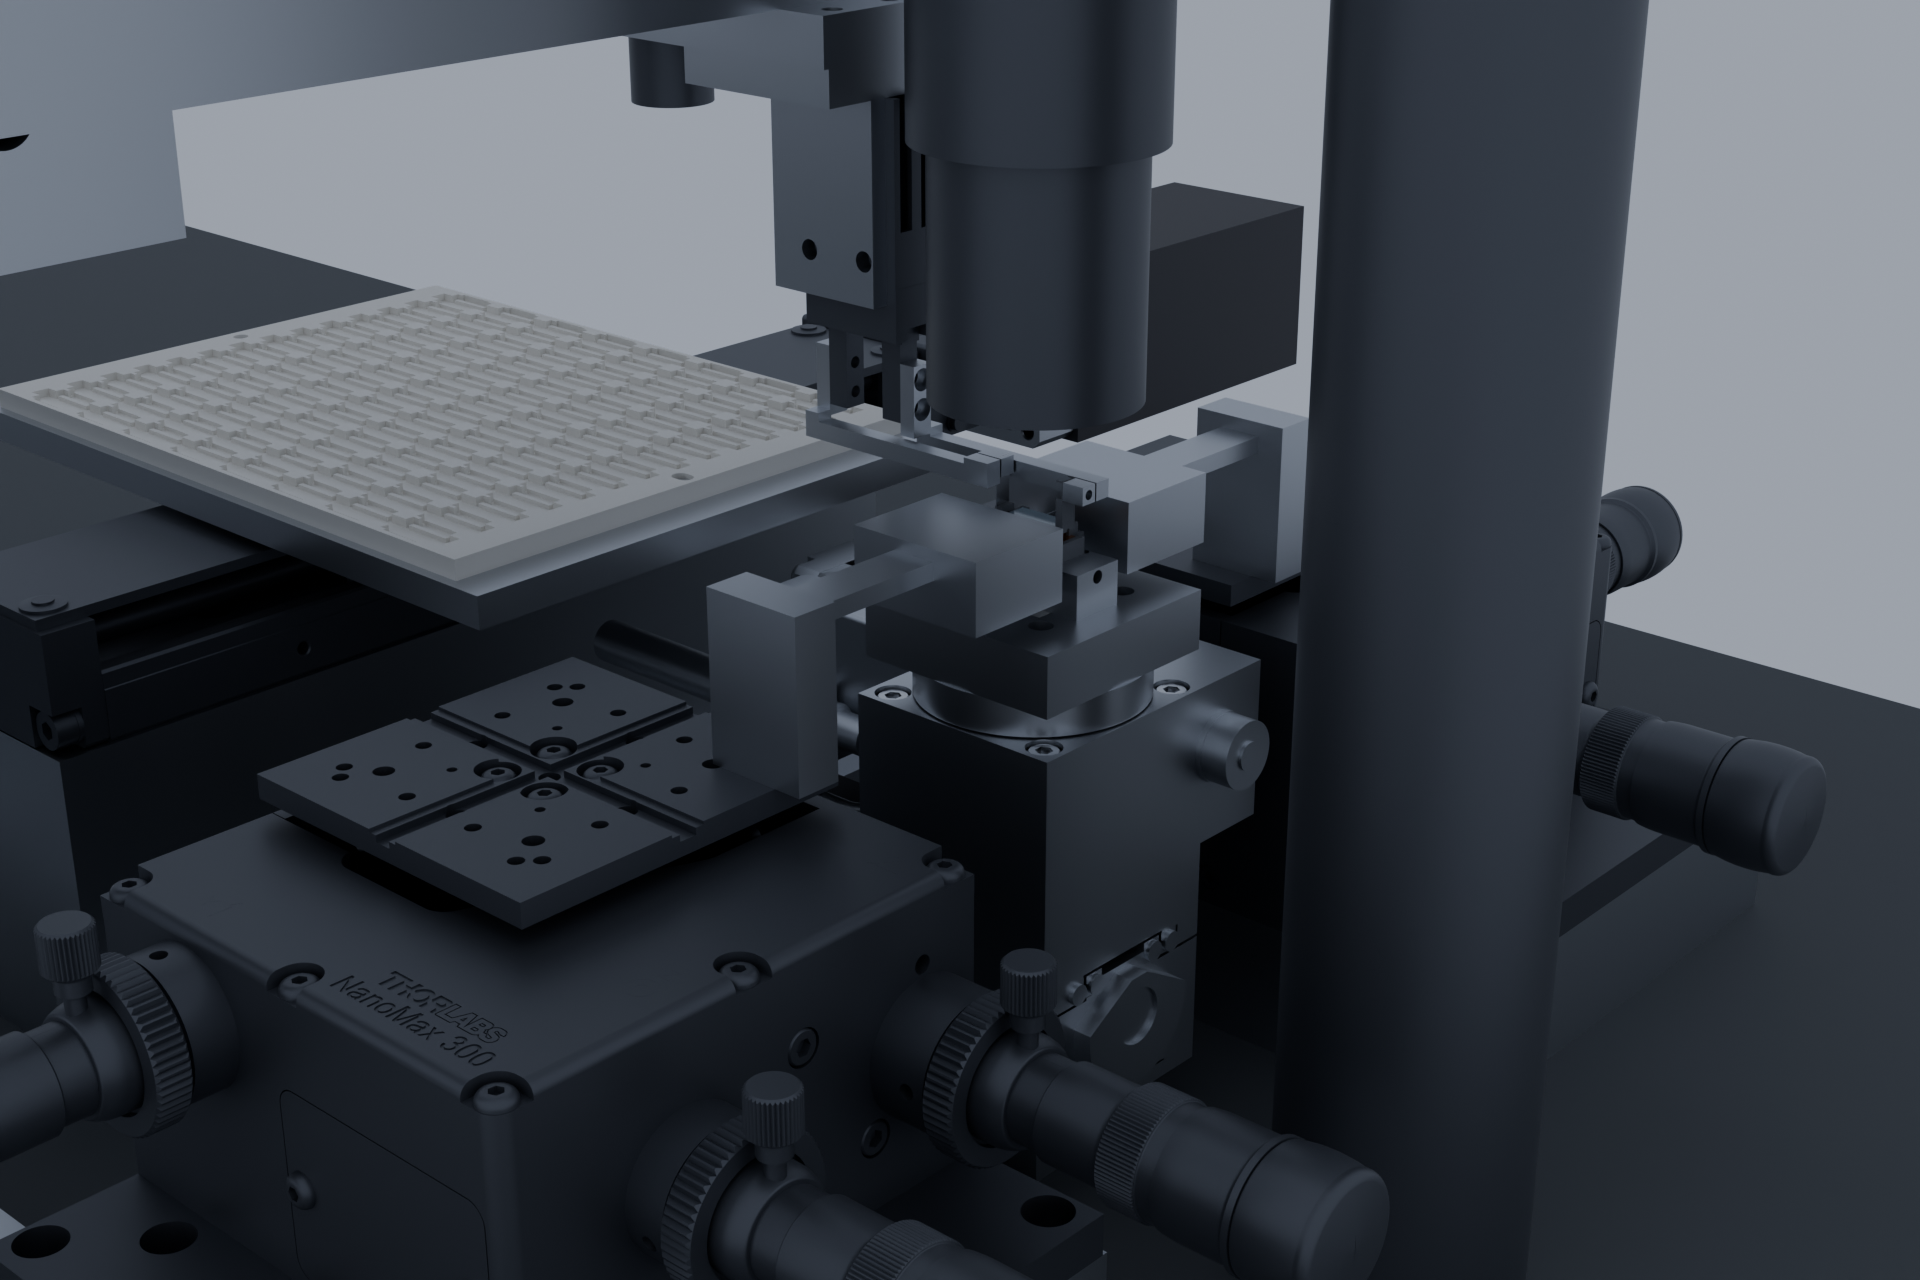
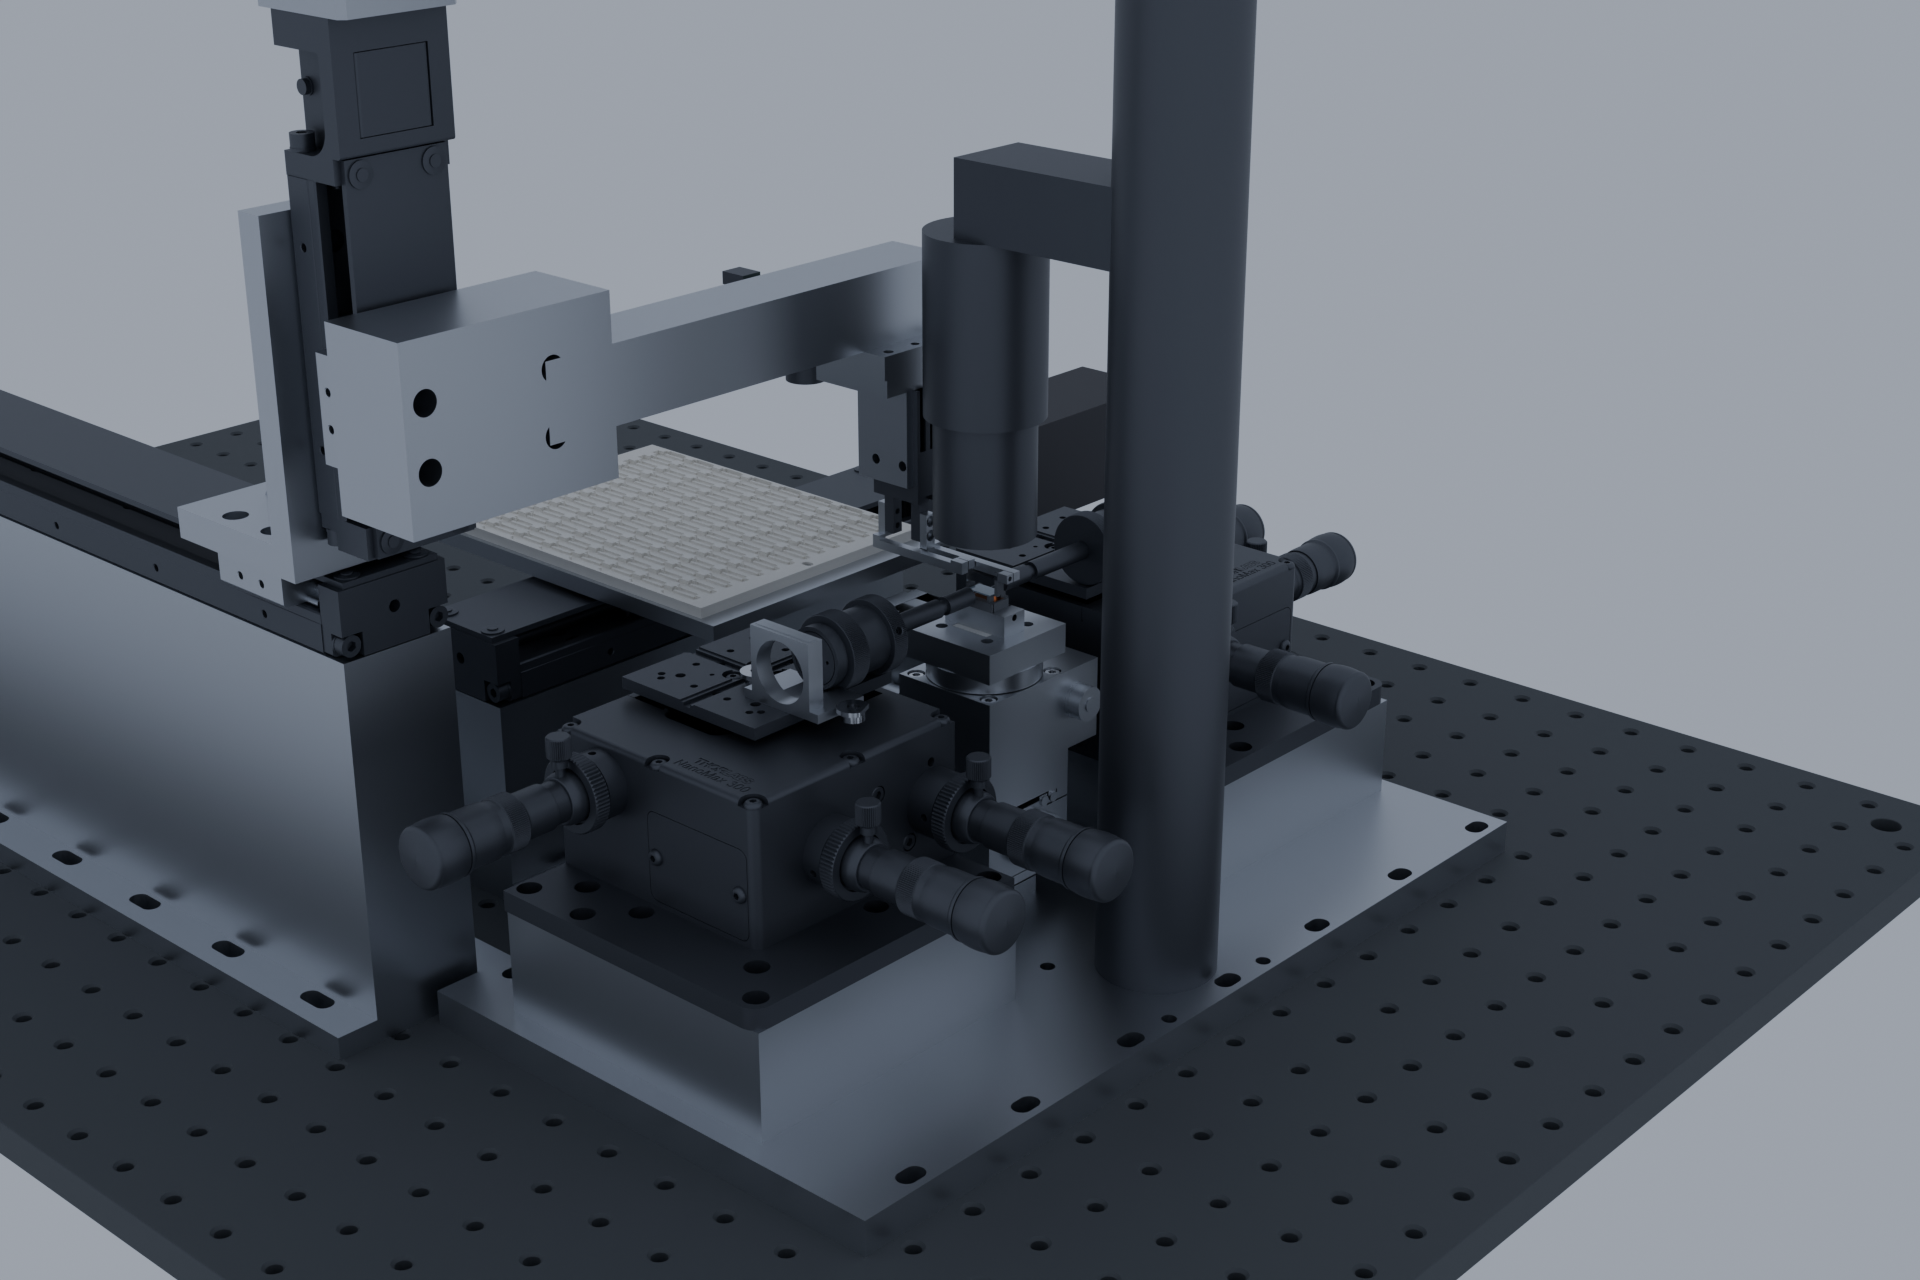
3D-viz agent: rerun against the real fiber holders, breadboard and base plate
Pulled 4a957d7 and reran the pipeline, per cad/station/HANDOFF.md.

  fiber_holder_in/out    -> fiber_mount/rotator/chuck/cleats_in/out (HCS013,
                            HFR001, HFC005, AMA010/M), all five members per side
                            now retract together on the fiber rig
  optical_table          -> MB6090/M breadboard, 864 holes, top Z -123; most of
                            the jump from 1.1 M to 1.8 M triangles, worth it at
                            these camera distances
  nest_base_plate_6061   -> new, static, lands in the Nest collection by prefix
  nest_kxc04015_unnamed  -> gone; the local rename for the unnamed knob-alias
                            solid is removed now that it is fixed at source

MATERIAL_RULES needed an ordering fix that the rename exposed: fiber_in/fiber_out
are the fiber tips and must match before the fiber hardware, or the mounts and
rotators render as glass.

71 members, 70 parts kept, all eight checks pass, stills re-rendered. The two
interface files did their job - members.json showed exactly the announced diff,
and build.py --check reported my outputs stale by sha before I reran.

Both of the designer agent's other answers confirmed here: --check now passes on
this Windows checkout, and the member-name table matches the assembly.

diff --git a/cad/blender/build_scene.py b/cad/blender/build_scene.py
@@ -53,12 +53,6 @@ DROP_MARKER = "_at_far_col"
 # Render aids: volumes the station model draws to show clearance, not parts of the machine.
 DROP_NAMES = {"objective_keepout", "camera_fov"}
 
-# One solid of the Suruga KXC04015-C die stage arrives from the STEP without a product name (the
-# vendor path aliases the knob onto the coupling solid, cad/nest/model.py:337, so a member is left
-# carrying only its entity number).  It sits in the die-stage stack below the nest; give it a name so
-# it lands in the right collection instead of a stray "Other".
-NAME_FIXES = {"25": "nest_kxc04015_unnamed"}
-
 # --------------------------------------------------------------------------------------------
 # Materials: (base colour RGB, metallic, roughness).
 # The material of each custom part is already in its filename suffix (_6061, _copper, _semitron,
@@ -95,8 +89,12 @@ MATERIAL_RULES = [
     ("camera_dart", "pcb"),
     ("camera_lens", "anodized"),
     ("camera_usb", "anodized"),
-    ("fiber_holder", "aluminium"),
-    ("fiber_", "glass"),
+    ("fiber_in", "glass"),
+    ("fiber_out", "glass"),
+    ("fiber_rotator", "anodized"),
+    ("fiber_chuck", "anodized"),
+    ("fiber_cleats", "steel"),
+    ("fiber_mount", "aluminium"),
     ("nanomax300", "anodized"),
     ("objective", "anodized"),
     ("microscope_", "anodized"),
@@ -179,8 +177,6 @@ def sort_into_collections(objects):
     made = {}
     dropped = 0
     for obj in objects:
-        if obj.name in NAME_FIXES:
-            obj.name = NAME_FIXES[obj.name]
         name = obj.name
         if DROP_MARKER in name or name in DROP_NAMES:
             bpy.data.objects.remove(obj, do_unlink=True)
@@ -411,7 +407,7 @@ def main():
     # The close-up frames the exchange itself: the nest stack, the die, the jaws and both fiber
     # holders, which is where every contact rule in CLAUDE.md applies.
     close_up = [o for o in kept
-                if o.name.startswith(("nest_", "die_at_nest", "gripper_", "fiber_holder"))]
+                if o.name.startswith(("nest_", "die_at_nest", "gripper_", "fiber_"))]
 
     add_lighting(lo, hi)
     configure_render(args.engine, args.samples, tuple(args.resolution))

diff --git a/cad/blender/verify_scene.py b/cad/blender/verify_scene.py
@@ -6,7 +6,7 @@
 Exits non-zero if any check fails, so it can gate a render.  Every check exists because something
 actually went wrong once; see BLUEPRINT.md.
 
-  inventory   64 parts in the static scene, 65 animated, and no far-column ghosts
+  inventory   the expected part counts, and no far-column ghosts
   rig         just after the homing step, every part is exactly where the static scene has it plus
               the offset its own axis should have, and nothing else.  This is the one that
               matters: a stale parent
@@ -35,8 +35,8 @@ from animate_exchange import (                            # noqa: E402
     STAGE_THETA, STAGE_X, TRAVERSE, X_CARRIAGE, Y_CARRIAGE, Z_CARRIAGE)
 
 TOL = 0.02            # mm; the tessellation itself is 0.05 mm, so this only catches real moves
-STATIC_PARTS = 64
-ANIMATED_PARTS = 65   # the same 64, plus the copy of the die that starts in a tray pocket
+STATIC_PARTS = 70     # 71 assembly members less objective_keepout, the one render aid
+ANIMATED_PARTS = 71   # the same 70, plus the copy of the die that starts in a tray pocket
 
 # CLAUDE.md: the die is held only on its end faces, inside the band Y 1.5..4.5.
 CONTACT_Y = (1.5, 4.5)

diff --git a/cad/blender/animate_exchange.py b/cad/blender/animate_exchange.py
@@ -67,8 +67,12 @@ STAGE_X = ["nest_kxc04015_table", "nest_spacer_kxc_rot",
            "nest_rmpg40w_cable", "nest_rmpg40w_bolts"]
 STAGE_THETA = ["nest_rmpg40w_table", "nest_riser_6061", "nest_tec",
                "nest_chuck_copper", "nest_cage_semitron"]
-FIBER_IN = ["fiber_in", "fiber_holder_in"]
-FIBER_OUT = ["fiber_out", "fiber_holder_out"]
+# The fiber and everything that grips it retract together: HCS013 mount, HFR001 rotator, HFC005
+# chuck and the AMA010/M cleats.  The NanoMax bodies stay put - see BLUEPRINT.md, known
+# simplifications.
+FIBER_IN = ["fiber_in", "fiber_mount_in", "fiber_rotator_in", "fiber_chuck_in", "fiber_cleats_in"]
+FIBER_OUT = ["fiber_out", "fiber_mount_out", "fiber_rotator_out", "fiber_chuck_out",
+             "fiber_cleats_out"]
 
 # The RMPG40W-N yaw axis runs through the die (cad/station/README.md); the die centre is X 5, Y 3.
 THETA_AXIS = Vector((5.0, 3.0, 0.0))

diff --git a/cad/blender/README.md b/cad/blender/README.md
@@ -69,7 +69,7 @@ this README and `renders/` are tracked. Re-run the three steps to get them back.
 
 ## What ends up in the scene
 
-**64 parts, from 65 members.** The one dropped is `objective_keepout`, a clearance volume the
+**70 parts, from 71 members.** The one dropped is `objective_keepout`, a clearance volume the
 station model draws as a render aid rather than a part of the machine (`camera_fov` is dropped the
 same way when present).
 
@@ -85,7 +85,13 @@ Y axis, Z tower, Arm, Gripper, Tray camera.
 **Materials** are chosen from the part name, which already encodes the material by the repo's
 suffix convention (`_6061`, `_copper`, `_semitron`, `_steel`); the vendor parts get the finish they
 actually have (black-anodized bodies, stepper cans, the SLA tray, the copper chuck, the TFLN die
-and the fiber tips with a little transmission).
+and the fiber tips with a little transmission). Order matters in `MATERIAL_RULES`: `fiber_in` and
+`fiber_out` are the fiber tips and must be matched before the fiber *hardware* — the HCS013 mount,
+HFR001 rotator, HFC005 chuck and AMA010/M cleats — or the holders come out looking like glass.
+
+The optical table is the Thorlabs MB6090/M breadboard, 864 holes, which is most of the jump from
+1.1 M to 1.8 M triangles. It is worth it at these camera distances; if it ever costs too much,
+replace that one member with a slab rather than coarsening the whole tessellation.
 
 **Cameras.** `cam_iso`, `cam_plan`, `cam_side` (along +Y, the optical axis) and `cam_front` (along
 +X, the die long axis) match the `cadgen` renders in `cad/station/renders/`; `cam_nest` is the
